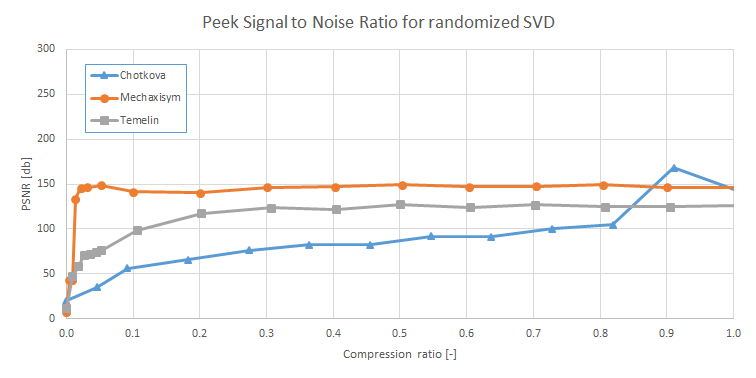
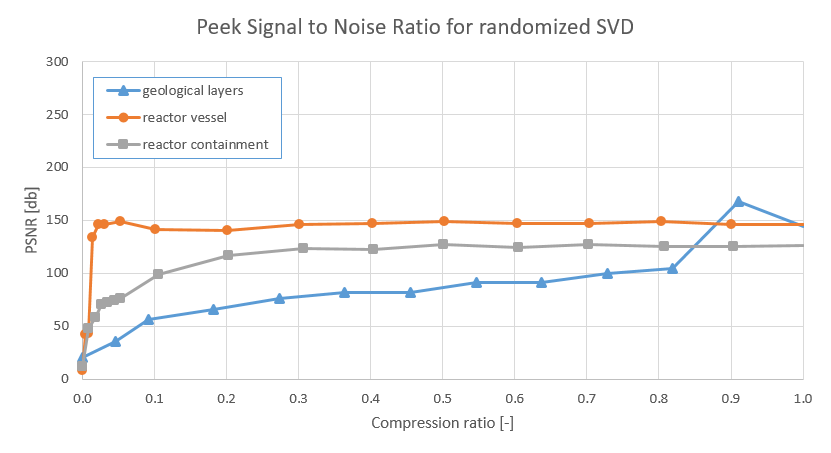
Fix all suggestion of reviewer #3

diff --git a/sections/results.tex b/sections/results.tex
@@ -24,18 +24,18 @@ Behavior of the compression strategy introduced is presented on three real world
 
 \begin{figure}[H]
 \centering\includegraphics[width=\textwidth]{figures/temelin_screenshot}
-\caption{Segment of containment analyzed. Results visualization (displacement field, x component).}
+\caption{Segment of reactor containment analyzed. Results visualization (displacement field, x component).}
 \label{fig:temelin:mesh}
 \end{figure}
 
 \begin{figure}[H]
 \centering\includegraphics[width=\textwidth]{figures/temelin_NRMSD}
-\caption{Dependence of $\mathit{NRMSD}$ on $c$ for reactor containment analysis results.} % ...$c$ (and $r$)...
+\caption{Dependence of $\mathit{NRMSD}$ on $c$ and $r$ for reactor containment analysis results.} % ...$c$ (and $r$)...
 \label{fig:temelin:NRMSD}
 \end{figure}
 
 % geological layers
-Figure \ref{fig:chotkova:mesh} shows results from an analysis of geological layers which was based on theory of plasticity. More details can be found in \cite{Koudelka2006}. This project was chosen mainly to study behavior of compression algorithm when dealing with high discontinuities in data in spatial dimension (as can be seen in visualization). As summarized in Figure \ref{fig:chotkova:NRMSD} and Figure \ref{fig:chotkova:MaxError} this has negligible effect on quality of compression.
+Figure \ref{fig:chotkova:mesh} shows results from an analysis of geological layers which was based on theory of plasticity. More details can be found in \cite{Koudelka2006}. This project was chosen mainly to study behavior of compression algorithm when dealing with high discontinuities in data in spatial dimension (as can be seen in visualization). As summarized in Figure \ref{fig:chotkova:NRMSD} and Figure \ref{fig:chotkova:MaxError} this has negligible effect ($\mathit{NRMSD}$ and $\mathit{NME}$ are bellow 1\% even for very small $r$ -- 3 out of 22) on quality of compression.
 
 \begin{figure}[H]
 \centering\includegraphics[width=\textwidth]{figures/chotkova_screenshot}
@@ -45,13 +45,13 @@ Figure \ref{fig:chotkova:mesh} shows results from an analysis of geological laye
 
 \begin{figure}[H]
 \centering\includegraphics[width=\textwidth]{figures/chotkova_NRMSD}
-\caption{Dependence of $\mathit{NRMSD}$ on $c$ for results of geological layers project.}
+\caption{Dependence of $\mathit{NRMSD}$ on $c$ and $r$ for results of geological layers project.}
 \label{fig:chotkova:NRMSD}
 \end{figure}
 
 \begin{figure}[H]
 \centering\includegraphics[width=\textwidth]{figures/chotkova_MaxError}
-\caption{Dependence of $\mathit{NME}$ on $c$ for results of geological layers project.}
+\caption{Dependence of $\mathit{NME}$ on $c$ and $r$ for results of geological layers project.}
 \label{fig:chotkova:MaxError}
 \end{figure}
 
@@ -66,22 +66,22 @@ Figure \ref{fig:mechaxisym:mesh} contains visualization of results of two-dimens
 
 \begin{figure}[H]
 \centering\includegraphics[width=\textwidth]{figures/mechaxisym_NRMSD}
-\caption{Dependence of $\mathit{NRMSD}$ on $c$ for reactor vessel analysis results.}
+\caption{Dependence of $\mathit{NRMSD}$ on $c$ and $r$ for reactor vessel analysis results.}
 \label{fig:mechaxisym:NRMSD}
 \end{figure}
 
 % PSNR
-Figure \ref{fig:PSNR} summarizes the compression error for all three benchmarks using logarithmic scale to make the differences more visible. Peek signal to noise ratio ($\mathit{PSNR}$) metric is used (see Equation (\ref{eq:psnr-def}) for definition). Figure \ref{fig:PSNR_rand} contains the same comparison for the randomized SVD algorithm.
+Figure \ref{fig:PSNR} summarizes the compression error for all three benchmarks using $\mathit{PSNR}$ metric. $\mathit{PSNR}$ is defined using logarithm (see Equation (\ref{eq:psnr-def}) for definition), and is included here mainly as a comparison to other image-related compression methods whose quality is often expressed by $\mathit{PSNR}$. Figure \ref{fig:PSNR_rand} contains the same information for the randomized SVD algorithm.
 
 \begin{figure}[H]
 \centering\includegraphics[width=\textwidth]{figures/PSNR}
-\caption{Comparison of $\mathit{PSNR}$ calculated for different decompositions.}
+\caption{Dependence of $\mathit{PSNR}$ value on $c$ and $r$ calculated for different SVD decompositions.}
 \label{fig:PSNR}
 \end{figure}
 
 \begin{figure}[H]
 \centering\includegraphics[width=\textwidth]{figures/PSNR_rand}
-\caption{Comparison of $\mathit{PSNR}$ for different randomized decompositions.}
+\caption{Dependence of $\mathit{PSNR}$ value on $c$ and $r$ calculated for different randomized SVD decompositions.}
 \label{fig:PSNR_rand}
 \end{figure}
 
@@ -90,7 +90,7 @@ Besides the error also the execution speed of compression algorithm was measured
 
 \begin{figure}[H]
 \centering\includegraphics[width=\textwidth]{figures/temelin_ExecutionTime}
-\caption{Variation of execution time of standard and randomized SVD calculated for reactor containment analysis results.}
+\caption{Variation of execution time of standard and randomized SVD decompositions calculated for reactor containment analysis results.}
 \label{fig:temelin:ExeTime}
 \end{figure}
 
